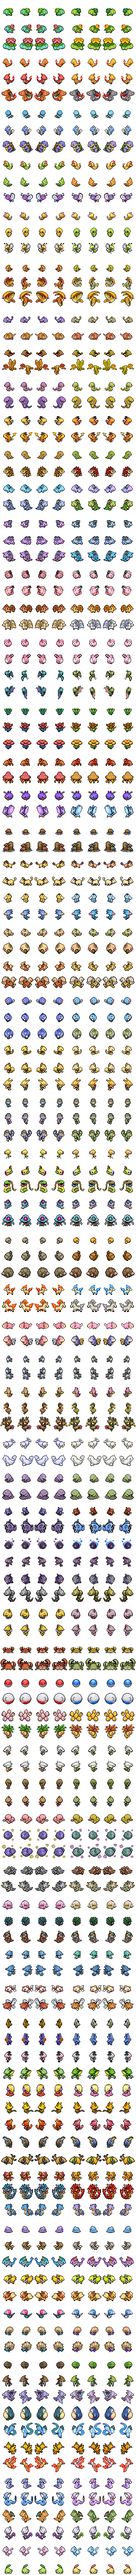
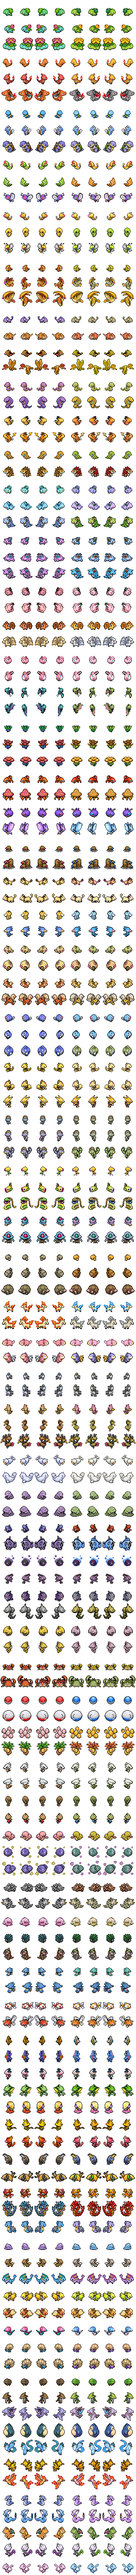
Pesca sempre em 1x e jogada pelo jogador; seguidor com o sprite certo a partir da Nidoran♀
O gerador dos seguidores pulava FOLLOWER_MON_NIDORAN_F achando que era forma fêmea, e todos os
Pokémon do 29 em diante ficavam com o sprite do vizinho (Poliwrath aparecia como Abra).
Durante a pesca a velocidade vai para 1x e volta à escolhida no fim; o AUTO não pesca mais
sozinho (só o modo gravação).

Claude-Session: https://claude.ai/code/session_01PSXVjgtgPfLUSZ7uBhu6rz

Changed region(s): [[0.0, 0.1875, 1.0, 1.0]]

diff --git a/js/game.js b/js/game.js
@@ -858,7 +858,7 @@
 
   function setupButtons() {
     const sp = $('#btn-speed');
-    sp.onclick = () => { setSpeed(G.speed === 1 ? 2 : G.speed === 2 ? 4 : 1); window.SFX.select(); };
+    sp.onclick = () => { if (G.fishing) return; setSpeed(G.speed === 1 ? 2 : G.speed === 2 ? 4 : 1); window.SFX.select(); };
     const auto = $('#btn-auto');
     auto.onclick = () => { UI.state.auto = !UI.state.auto; auto.classList.toggle('on', UI.state.auto); window.SFX.select(); };
     const mute = $('#btn-mute');
@@ -879,7 +879,7 @@
     window.addEventListener('pointercancel', () => press(false));
     window.addEventListener('keydown', e => {
       if (e.code === 'Escape' && G.autopilot) setRecording(false);
-      if (['Digit1', 'Digit2', 'Digit4'].includes(e.code)) setSpeed(+e.code.slice(5));
+      if (['Digit1', 'Digit2', 'Digit4'].includes(e.code) && !G.fishing) setSpeed(+e.code.slice(5));
       if (G.fishing && (e.code === 'Space' || e.code === 'Enter' || e.code === 'KeyZ')) { e.preventDefault(); if (!e.repeat) press(true); }
     });
     window.addEventListener('keyup', e => { if (e.code === 'Space' || e.code === 'Enter' || e.code === 'KeyZ') press(false); });
@@ -928,7 +928,7 @@
   }
 
   window.GAME = {
-    G, wait, say, choose, count, addItem, ballCount, updateHud, walkTo, runBattle, afterBattle, addCaught,
+    G, wait, say, choose, setSpeed, count, addItem, ballCount, updateHud, walkTo, runBattle, afterBattle, addCaught,
     flashTransition, fade, vsScreen, badgeScene, evolveScene, healParty, visitShop, goInside, goOutside,
   };
 

diff --git a/js/events.js b/js/events.js
@@ -117,15 +117,20 @@
     add(lk, Wd.npc('fisher', x + 26));
     await walkTo(x);
     await say('Pescador: Que lago bonito! Pegue minha vara e tente a sorte!');
-    if (!G.autopilot && !UI.state.auto) await say('Segure o clique (ou ESPAÇO) para a barra verde subir e mantenha o peixe dentro dela!');
+    if (!G.autopilot) await say('Segure o clique (ou ESPAÇO) para a barra verde subir e mantenha o peixe dentro dela!');
     const enc = J.encounter(G, slot);
     const mon = enc.enemies[0];
     G.world.dir = 'down';
-    const f = new window.FISHING.Fishing({ ...J.fishing(G, mon), autoFn: () => UI.state.auto || G.autopilot });
+    // a pesca é sempre em 1x e quem joga é o jogador (o AUTO só passa os textos);
+    // só o modo gravação pesca sozinho
+    const speed = G.speed;
+    GM.setSpeed(1);
+    const f = new window.FISHING.Fishing({ ...J.fishing(G, mon), autoFn: () => G.autopilot });
     f.lake = lk;
     G.fishing = f;
     const r = await f.promise;
     G.fishing = null;
+    GM.setSpeed(speed);
     G.world.dir = 'right';
     if (!r.caught) {
       await say('Ah, não... O Pokémon escapou!');

diff --git a/js/fishing.js b/js/fishing.js
@@ -97,7 +97,7 @@
       this.fishPos = clamp(this.fishPos + this.fishSpeed + this.floatAcc, 0, FISH_MAX);
     }
 
-    // jogador automático (modo AUTO): segura quando a barra vai ficar abaixo do peixe.
+    // jogador automático (modo gravação): segura quando a barra vai ficar abaixo do peixe.
     // Ele reage com atraso (maior nos peixes difíceis), então às vezes o peixe escapa.
     autoHold() {
       if (this.ticks >= (this.autoNext || 0)) {

diff --git a/tools/build_overworld.py b/tools/build_overworld.py
@@ -74,13 +74,16 @@ def read_btx(path):
 
 
 def follower_indexes(pret):
-    """Índice de seguidor de cada espécie (as formas fêmeas têm índice próprio e são puladas)."""
-    out = []
+    """Índice de seguidor de cada espécie (as formas fêmeas têm índice próprio e são puladas;
+    NIDORAN_F é uma espécie, não a forma fêmea de outra)."""
+    entries = []
     with open(os.path.join(pret, 'include', 'constants', 'follow_mon_idx.h')) as f:
         for line in f:
             m = re.match(r'#define FOLLOWER_MON_(\w+)\s+(\d+)', line)
-            if m and m.group(1) != 'NONE' and not m.group(1).endswith('_F'):
-                out.append(int(m.group(2)))
+            if m and m.group(1) != 'NONE':
+                entries.append((m.group(1), int(m.group(2))))
+    names = {n for n, _ in entries}
+    out = [i for n, i in entries if not (n.endswith('_F') and n[:-2] in names)]
     return out[:N]
 
 

diff --git a/README.md b/README.md
@@ -50,8 +50,9 @@ Eventos possíveis:
 - **Treinador**: batalha que dá dinheiro (16 classes de treinador do FireRed).
 - **Lago**: um pescador empresta a vara (Magikarp, Krabby, Tentacool, Goldeen, Staryu, Slowpoke...) e começa o minijogo de pesca (estilo Stardew Valley). Segure o clique
   ou ESPAÇO para a barra verde subir e mantenha o peixe dentro dela até encher o medidor. Pescaria perfeita
-  deixa o Pokémon cansado (mais fácil de capturar), e às vezes vem um baú com item. No AUTO, o pescador
-  automático erra de vez em quando nos peixes difíceis (Gyarados, Dratini, Lapras).
+  deixa o Pokémon cansado (mais fácil de capturar), e às vezes vem um baú com item. A pesca roda sempre em 1x
+  (depois volta para a velocidade escolhida) e quem segura a barra é sempre o jogador, mesmo com AUTO ligado.
+  Só o modo gravação pesca sozinho (e erra de vez em quando nos peixes difíceis: Gyarados, Dratini, Lapras).
 - **Equipe Rocket**: batalha mais difícil; pode deixar cair um Doce Raro.
 - **Rival Blue**: aparece mais forte a cada encontro.
 - **Presente**: um senhor te dá um Pokémon raro.
